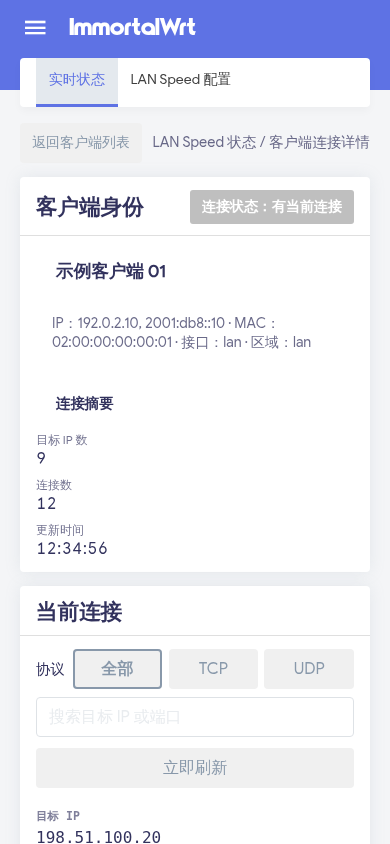
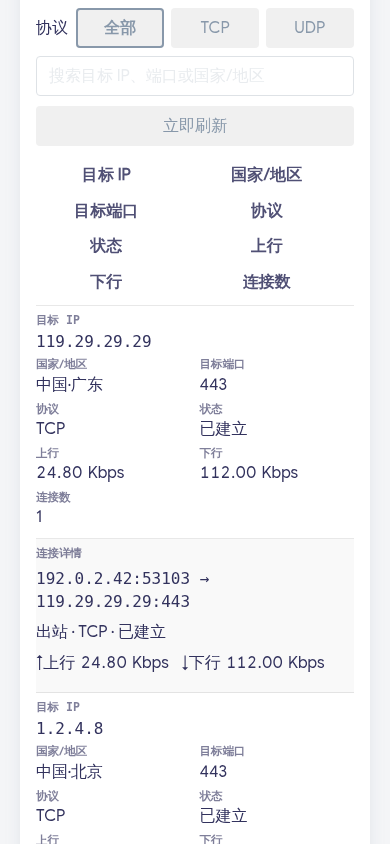
文档：更新脱敏界面示例截图
更新 Aurora 与 Argon 的实时状态及连接详情示例截图，展示八列表头和中国省级位置。所有截图均使用虚构客户端、地址和连接数据，不包含真实设备信息。

diff --git a/applications/luci-app-lanspeed/htdocs/luci-static/resources/lanspeed/geoLocation.js b/applications/luci-app-lanspeed/htdocs/luci-static/resources/lanspeed/geoLocation.js
@@ -1,12 +1,37 @@
 'use strict';
 'require baseclass';
 
-var CACHE_KEY = 'lanspeed.geo-location.v1';
+var CACHE_KEY = 'lanspeed.geo-location.v2';
+var CACHE_VERSION = 2;
+var LOOKUP_ENDPOINT = 'https://ipwho.is/';
 var MAX_CACHE_ENTRIES = 4096;
 var POSITIVE_TTL_MS = 7 * 24 * 60 * 60 * 1000;
 var NEGATIVE_TTL_MS = 5 * 60 * 1000;
 var MAX_CONCURRENCY = 4;
 var REQUEST_TIMEOUT_MS = 8000;
+
+var CHINA_PROVINCES = {
+	AH: '安徽', BJ: '北京', CQ: '重庆', FJ: '福建', GS: '甘肃', GD: '广东',
+	GX: '广西', GZ: '贵州', HI: '海南', HE: '河北', HL: '黑龙江', HA: '河南',
+	HB: '湖北', HN: '湖南', NM: '内蒙古', JS: '江苏', JX: '江西', JL: '吉林',
+	LN: '辽宁', NX: '宁夏', QH: '青海', SN: '陕西', SD: '山东', SH: '上海',
+	SX: '山西', SC: '四川', TJ: '天津', XJ: '新疆', XZ: '西藏', YN: '云南',
+	ZJ: '浙江'
+};
+
+var CHINA_PROVINCE_NAMES = {
+	anhui: '安徽', beijing: '北京', chongqing: '重庆', fujian: '福建',
+	gansu: '甘肃', guangdong: '广东', guangxi: '广西', guizhou: '贵州',
+	hainan: '海南', hebei: '河北', heilongjiang: '黑龙江', henan: '河南',
+	hubei: '湖北', hunan: '湖南', 'inner mongolia': '内蒙古', 'nei mongol': '内蒙古',
+	jiangsu: '江苏', jiangxi: '江西', jilin: '吉林', liaoning: '辽宁',
+	ningxia: '宁夏', qinghai: '青海', shaanxi: '陕西', shandong: '山东',
+	shanghai: '上海', shanxi: '山西', sichuan: '四川', tianjin: '天津',
+	xinjiang: '新疆', tibet: '西藏', xizang: '西藏', yunnan: '云南', zhejiang: '浙江',
+	'guangxi zhuangzu zizhiqu': '广西', 'ningxia huizu zizhiqu': '宁夏',
+	'xinjiang uygur zizhiqu': '新疆', 'xinjiang weiwuer zizhiqu': '新疆',
+	'xizang zizhiqu': '西藏'
+};
 
 function result(kind, label, queryable) {
 	return {
@@ -183,7 +208,7 @@ function readCache(storage, maxEntries, now) {
 		if (!raw || raw.length > 2 * 1024 * 1024)
 			return cache;
 		parsed = JSON.parse(raw);
-		entries = parsed && parsed.version === 1 && parsed.entries;
+		entries = parsed && parsed.version === CACHE_VERSION && parsed.entries;
 		if (!entries || typeof entries !== 'object' || Array.isArray(entries))
 			return cache;
 		keys = Object.keys(entries);
@@ -194,6 +219,9 @@ function readCache(storage, maxEntries, now) {
 				continue;
 			if (entry.status === 'ok' &&
 			    typeof entry.code !== 'string' && typeof entry.country !== 'string')
+				continue;
+			if ((entry.regionCode !== undefined && typeof entry.regionCode !== 'string') ||
+			    (entry.region !== undefined && typeof entry.region !== 'string'))
 				continue;
 			cache[keys[i]] = entry;
 		}
@@ -228,6 +256,29 @@ function createDisplayNames(options) {
 	return null;
 }
 
+function chinaProvince(regionCode, region) {
+	var code = String(regionCode || '').trim().toUpperCase();
+	var name = String(region || '').trim().toLowerCase()
+		.replace(/[_.-]+/g, ' ')
+		.replace(/\s+/g, ' ');
+	var chineseName;
+	var keys, i;
+	if (CHINA_PROVINCES[code])
+		return CHINA_PROVINCES[code];
+	if (!name)
+		return '';
+	keys = Object.keys(CHINA_PROVINCES);
+	chineseName = name.replace(/\s+/g, '');
+	for (i = 0; i < keys.length; i++) {
+		if (chineseName.indexOf(CHINA_PROVINCES[keys[i]]) === 0)
+			return CHINA_PROVINCES[keys[i]];
+	}
+	if (CHINA_PROVINCE_NAMES[name])
+		return CHINA_PROVINCE_NAMES[name];
+	name = name.replace(/\s+(?:sheng|shi)$/, '');
+	return CHINA_PROVINCE_NAMES[name] || '';
+}
+
 function countryFields(payload) {
 	var data = payload && typeof payload === 'object' ? payload : {};
 	var location = data.location && typeof data.location === 'object'
@@ -242,6 +293,12 @@ function countryFields(payload) {
 		data.country_code || data.countryCode || data.country_a2 || '';
 	var country = location.country || location.country_name ||
 		location.countryName || data.country || data.country_name || '';
+	var regionCode = location.region_code || location.regionCode ||
+		location.subdivision_code || data.region_code || data.regionCode ||
+		data.subdivision_code || '';
+	var region = location.region || location.region_name || location.regionName ||
+		location.subdivision || data.region || data.region_name || data.regionName ||
+		data.subdivision || '';
 	var normalizedCountry;
 	code = String(code || '').trim().toUpperCase();
 	country = String(country || '').trim();
@@ -258,16 +315,27 @@ function countryFields(payload) {
 		else
 			code = '';
 	}
-	return { code: code, country: country };
+	return {
+		code: code,
+		country: country,
+		regionCode: String(regionCode || '').trim().toUpperCase(),
+		region: String(region || '').trim()
+	};
 }
 
 function countryResult(entry, displayNames) {
 	var label = '';
+	var province;
 	if (entry.code && displayNames && typeof displayNames.of === 'function') {
 		try { label = displayNames.of(entry.code) || ''; } catch (e) {}
 	}
 	if (!label)
 		label = entry.country || entry.code || '';
+	if (entry.code === 'CN') {
+		province = chinaProvince(entry.regionCode, entry.region);
+		if (province)
+			label = '中国·' + province;
+	}
 	return label
 		? result('country', String(label), false)
 		: result('unknown', '未知', false);
@@ -336,7 +404,7 @@ function createResolver(options) {
 			return;
 		trimCache(cache, maxEntries);
 		try {
-			storage.setItem(CACHE_KEY, JSON.stringify({ version: 1, entries: cache }));
+			storage.setItem(CACHE_KEY, JSON.stringify({ version: CACHE_VERSION, entries: cache }));
 		} catch (e) {}
 	}
 
@@ -376,6 +444,8 @@ function createResolver(options) {
 			status: 'ok',
 			code: fields.code,
 			country: fields.country,
+			regionCode: fields.regionCode,
+			region: fields.region,
 			storedAt: stamp,
 			expiresAt: stamp + POSITIVE_TTL_MS
 		};
@@ -445,13 +515,16 @@ function createResolver(options) {
 		var request = Promise.resolve().then(function() {
 			if (typeof fetcher !== 'function')
 				throw new Error('fetch unavailable');
-			return fetcher('https://ip.guide/' + encodeURIComponent(ip), requestOptions);
+			return fetcher(LOOKUP_ENDPOINT + encodeURIComponent(ip), requestOptions);
 		}).then(function(response) {
 			if (!response || response.ok === false || typeof response.json !== 'function')
 				throw new Error('geolocation request failed');
 			return response.json();
 		}).then(function(payload) {
-			var fields = countryFields(payload);
+			var fields;
+			if (payload && payload.success === false)
+				throw new Error('geolocation request rejected');
+			fields = countryFields(payload);
 			if (!fields.code && !fields.country)
 				throw new Error('country missing');
 			return fields;

diff --git a/tests/validate-lanspeed-geo.js b/tests/validate-lanspeed-geo.js
@@ -71,6 +71,8 @@ async function main() {
 			JSON.stringify([ 'classify', 'createResolver' ]),
 		'geoLocation.js must expose only classify and createResolver');
 	assert(source.includes('MAX_CACHE_ENTRIES = 4096') &&
+		source.includes("CACHE_KEY = 'lanspeed.geo-location.v2'") &&
+		source.includes("LOOKUP_ENDPOINT = 'https://ipwho.is/'") &&
 		source.includes('POSITIVE_TTL_MS = 7 * 24 * 60 * 60 * 1000') &&
 		source.includes('NEGATIVE_TTL_MS = 5 * 60 * 1000') &&
 		source.includes('MAX_CONCURRENCY = 4') &&
@@ -111,13 +113,16 @@ async function main() {
 		storage: null,
 		fetch: (url, options) => {
 			publicFetches++;
-			assert(url === 'https://ip.guide/8.8.8.8',
-				'lookups must use the encoded https://ip.guide/<ip> endpoint');
+			assert(url === 'https://ipwho.is/8.8.8.8',
+				'lookups must use the encoded https://ipwho.is/<ip> endpoint');
 			assert(options.credentials === 'omit' && options.referrerPolicy === 'no-referrer',
 				'lookups must omit credentials and referrer data');
 			return response({
-				network: { autonomous_system: { country: 'CN' } },
-				location: { country: 'China' }
+				success: true,
+				country_code: 'CN',
+				country: 'China',
+				region_code: 'ZJ',
+				region: 'Zhejiang Sheng'
 			});
 		},
 		displayNames: { of: (code) => code === 'CN' ? '中国' : code }
@@ -126,9 +131,27 @@ async function main() {
 		await publicOnly.resolve(ip);
 	assert(publicFetches === 0, 'non-public addresses must never reach the network');
 	const localized = await publicOnly.resolve('8.8.8.8');
-	assert(publicFetches === 1 && localized.kind === 'country' && localized.label === '中国',
-		'country codes must be localized through Intl.DisplayNames-compatible lookup');
+	assert(publicFetches === 1 && localized.kind === 'country' && localized.label === '中国·浙江',
+		'Chinese public IPs must include the localized province');
 	publicOnly.dispose();
+
+	const provincePayloads = [
+		{ success: true, country_code: 'CN', country: 'China', region_code: 'BJ', region: 'Beijing' },
+		{ success: true, country_code: 'CN', country: 'China', region_code: 'XJ', region: 'Xinjiang Uygur Zizhiqu' },
+		{ success: true, country_code: 'CN', country: 'China', region: '广西壮族自治区' },
+		{ success: true, country_code: 'CN', country: 'China' }
+	];
+	const provinces = geo.createResolver({
+		storage: null,
+		fetch: () => response(provincePayloads.shift()),
+		displayNames: { of: (code) => code === 'CN' ? '中国' : code }
+	});
+	assert((await provinces.resolve('17.0.0.1')).label === '中国·北京' &&
+		(await provinces.resolve('17.0.0.2')).label === '中国·新疆' &&
+		(await provinces.resolve('17.0.0.3')).label === '中国·广西' &&
+		(await provinces.resolve('17.0.0.4')).label === '中国',
+		'China province rendering must cover municipalities, autonomous regions, name fallback and missing data');
+	provinces.dispose();
 
 	const specialPayloads = [
 		{ network: { autonomous_system: { country: 'CN' } }, location: { country: 'Hong Kong' } },
@@ -204,6 +227,32 @@ async function main() {
 	assert((await resolverC.resolve('1.1.1.1')).label === 'Expired Refresh' && positiveFetches === 2,
 		'positive entries must expire at the seven-day boundary');
 	resolverC.dispose();
+
+	const legacyStorage = memoryStorage(JSON.stringify({
+		version: 1,
+		entries: {
+			'18.0.0.1': {
+				status: 'ok', code: 'CN', country: 'China', storedAt: now,
+				expiresAt: now + 7 * 24 * 60 * 60 * 1000
+			}
+		}
+	}));
+	let legacyFetches = 0;
+	const legacy = geo.createResolver({
+		storage: legacyStorage,
+		now: () => now,
+		fetch: () => {
+			legacyFetches++;
+			return response({
+				success: true, country_code: 'CN', country: 'China',
+				region_code: 'GD', region: 'Guangdong Sheng'
+			});
+		},
+		displayNames: { of: () => '中国' }
+	});
+	assert((await legacy.resolve('18.0.0.1')).label === '中国·广东' && legacyFetches === 1,
+		'v1 country-only cache entries must be invalidated so China can gain province data');
+	legacy.dispose();
 
 	let failureNow = 2_000_000;
 	const failureStorage = memoryStorage();
@@ -321,7 +370,7 @@ async function main() {
 		'disposal must abort hanging lookups and clear every request timeout');
 
 	const boundedNow = 3_000_000;
-	const oversized = { version: 1, entries: {} };
+	const oversized = { version: 2, entries: {} };
 	for (let i = 0; i < 4100; i++) {
 		oversized.entries[`12.0.${Math.floor(i / 256)}.${i % 256}`] = {
 			status: 'ok', code: 'US', country: 'United States', storedAt: i,

diff --git a/tests/validate-release-version.js b/tests/validate-release-version.js
@@ -640,12 +640,12 @@ try {
   assert(readme.includes('手动运行也可补发'), 'README must document missing-release recovery');
   assert(readme.includes('不得预先创建 `v*` tag'), 'README must forbid maintainers from pre-creating release tags');
   assert(!readme.includes('GitHub Actions 在 `v*` tag 发布时'), 'README must not retain the obsolete tag-trigger description');
-  assert(readme.includes('`1.1.0-r9`'), 'README full-version example must match the 1.1.0 release');
-  assert(!/1\.1\.0-r[1-9][0-9]+/.test(readme),
-    'README must not advance the 1.1.0 release beyond r9');
+  assert(readme.includes('`1.1.0-r10`'), 'README full-version example must match the 1.1.0 release');
+  assert(!/1\.1\.0-r(?:1[1-9]|[2-9][0-9]|[1-9][0-9]{2,})/.test(readme),
+    'README must not advance the 1.1.0 release beyond r10');
 
-  assert(daemonRelease === '9', 'daemon PKG_RELEASE must be exactly 9 for the automatic release workflow');
-  assert(luciRelease === '9', 'LuCI PKG_RELEASE must be exactly 9 for the automatic release workflow');
+  assert(daemonRelease === '10', 'daemon PKG_RELEASE must be exactly 10 for the automatic release workflow');
+  assert(luciRelease === '10', 'LuCI PKG_RELEASE must be exactly 10 for the automatic release workflow');
 
   console.log('validate-release-version: PASS');
 } catch (error) {

diff --git a/tests/validate-lanspeed-modules.js b/tests/validate-lanspeed-modules.js
@@ -2140,7 +2140,7 @@ function assertClientDetailRefreshBehavior(src) {
 	if (!footer.includes('连接数据') || !footer.includes('Conntrack Netlink') ||
 	    !footer.includes('显示 2 / 共 2 条') ||
 	    !footer.includes('每 1 秒自动刷新') ||
-	    !footer.includes('国家/地区按 IP 推测，由浏览器查询并缓存')) {
+	    !footer.includes('国家/地区及中国省份按 IP 推测，由浏览器查询并缓存')) {
 		fail('clientDetailRefresh.js footer must report source/count/refresh meanings and disclose browser-cached IP inference');
 	}
 	if (JSON.stringify(locationRequests[0]) !== JSON.stringify([
@@ -3680,7 +3680,7 @@ function assertViewRequires(src) {
 
 function assertCacheAwareViewEntry(src, moduleName, label) {
 	if (!/^\s*['"]require\s+view['"]\s*;/m.test(src) ||
-	    !src.includes("var RESOURCE_VERSION = 'lanspeed-1.1.0-r9';") ||
+	    !src.includes("var RESOURCE_VERSION = 'lanspeed-1.1.0-r10';") ||
 	    !src.includes('var previousVersion = L.env.resource_version;') ||
 	    !src.includes('L.env.resource_version = RESOURCE_VERSION;') ||
 	    !src.includes(`L.require('${moduleName}')`) ||

diff --git a/applications/luci-app-lanspeed/htdocs/luci-static/resources/lanspeed/clientDetailRefresh.js b/applications/luci-app-lanspeed/htdocs/luci-static/resources/lanspeed/clientDetailRefresh.js
@@ -434,7 +434,7 @@ function render(viewState) {
 			footer.push(_('告警：') + warnings.map(warningLabel).join('，'));
 	}
 	footer.push(_('每 %s 秒自动刷新').format(String(Math.round(Number(interval) / 100) / 10)));
-	footer.push(_('国家/地区按 IP 推测，由浏览器查询并缓存，结果可能不准确'));
+	footer.push(_('国家/地区及中国省份按 IP 推测，由浏览器查询并缓存，结果可能不准确'));
 	refs.footer.textContent = footer.join(' · ');
 }
 

diff --git a/applications/luci-app-lanspeed/htdocs/luci-static/resources/view/lanspeed/diagnostics.js b/applications/luci-app-lanspeed/htdocs/luci-static/resources/view/lanspeed/diagnostics.js
@@ -1,7 +1,7 @@
 'use strict';
 'require view';
 
-var RESOURCE_VERSION = 'lanspeed-1.1.0-r9';
+var RESOURCE_VERSION = 'lanspeed-1.1.0-r10';
 var pageModule;
 
 function loadPageModule() {

diff --git a/applications/luci-app-lanspeed/htdocs/luci-static/resources/view/lanspeed/overview.js b/applications/luci-app-lanspeed/htdocs/luci-static/resources/view/lanspeed/overview.js
@@ -1,7 +1,7 @@
 'use strict';
 'require view';
 
-var RESOURCE_VERSION = 'lanspeed-1.1.0-r9';
+var RESOURCE_VERSION = 'lanspeed-1.1.0-r10';
 var pageModule;
 
 function loadPageModule() {

diff --git a/applications/luci-app-lanspeed/htdocs/luci-static/resources/lanspeed/version.js b/applications/luci-app-lanspeed/htdocs/luci-static/resources/lanspeed/version.js
@@ -3,6 +3,6 @@
 
 return baseclass.extend({
 	PACKAGE_VERSION: '1.1.0',
-	PACKAGE_RELEASE: '9',
-	FULL_VERSION: '1.1.0-r9'
+	PACKAGE_RELEASE: '10',
+	FULL_VERSION: '1.1.0-r10'
 });

diff --git a/README.md b/README.md
@@ -10,7 +10,7 @@ LAN 侧按客户端实时吞吐监控 + TCP/UDP 连接数统计，当前面向 I
 
 ## 界面预览
 
-以下截图分别使用 **Aurora** 与 **Argon** 主题；客户端名称、MAC、IP 和连接数据均已替换为脱敏示例。点击链接可查看完整原图。
+以下截图分别使用 **Aurora** 与 **Argon** 主题；六张图片均由虚构客户端、文档保留地址和示例连接数据生成，不包含真实设备、主机名、MAC、内网地址或路由器运行信息。连接详情示例同时展示八列表头，以及中国目标按省级行政区显示（如 `中国·浙江`）。点击链接可查看完整原图。
 
 - **Aurora**
   - [实时状态](docs/screenshots/lanspeed-overview-desktop.png)
@@ -49,7 +49,7 @@ make -j"$(nproc)" package/luci-app-lanspeed/compile
 - **实时速率**：BPF tc 按 MAC + zone/VLAN 直接计数，字段为 `tx_bps` / `rx_bps`；生产运行默认加载只做流量统计的低开销对象，不再在每个转发包上计算未被响应使用的近似连接数；BPF 是所有设备（包括 NSS）的默认实时速率来源，`auto` 模式会首先选择 BPF；短时静默客户端会保留隐藏计数基线，恢复流量时首个样本不再固定显示为 0。
 - **连接数统计**：优先 CT-Netlink 读取 conntrack accounting，失败自动回退 CT-Procfs；TCP、UDP、DNS UDP 分开统计。
 - **逐连接实时速率**：点击客户端名称进入连接详情后，按目标 IP 汇总并显示上行/下行速率；八列表头均可排序，默认把下行速度最高的目标放在最上面；展开目标可查看每条 TCP/UDP 连接各自的客户端视角 `tx_bps` / `rx_bps`。单客户端详情最多返回 2048 条连接，仍保留全局 16384 条存储保护。
-- **国家/地区**：详情页只对当前分页中去重后的公网目标 IP 由浏览器查询 `ip.guide`，最多 4 个并发，并在浏览器本地保存有界的 7 天正缓存和 5 分钟负缓存；内网、代理 Fake-IP 与保留地址在本地直接分类，不增加 daemon CPU。显示结果是 IP 位置推测，可能受 CDN、Anycast、VPN 或代理影响。
+- **国家/地区**：详情页只对当前分页中去重后的公网目标 IP 由浏览器查询 `ipwho.is`，中国结果优先显示省级行政区（例如 `中国·浙江`）；最多 4 个并发，并在浏览器本地保存有界的 7 天正缓存和 5 分钟负缓存。内网、代理 Fake-IP 与保留地址在本地直接分类，不增加 daemon CPU。显示结果是 IP 位置推测，可能受 CDN、Anycast、VPN 或代理影响。
 - **NSS 兼容**：Qualcomm NSS 设备自动展示 ECM/PPE 状态，默认仍使用 LAN 边缘 BPF；显式选择 NSS 模式或 BPF 运行时不可用时，才使用 NSS sync / CT-Netlink 或 NSS-direct。NSS 硬件加速流量可能绕过 CPU，因此 BPF 只能看到慢路径；IPv4 通过 ARP、IPv6 通过 neighbor 表匹配客户端，并兼容 ECM NAT 端点。
 - **活跃客户端**：默认只把 10 秒内仍有有效速率的客户端计为 active，可通过 UCI 调整。
 - **覆盖率**：daemon 侧使用 32 个样本的滑动窗口，并按客户端实时速率生成单调累计分子，避免客户端离线/重新出现导致覆盖率跳回“采样中”；低流量与真正无流量分开显示。
@@ -58,7 +58,7 @@ make -j"$(nproc)" package/luci-app-lanspeed/compile
 - **接口配置**：采集 / 观察 / 关闭 三态切换，默认采集 `br-lan`、观察 `wan`；自动忽略 `dae*`、`miireg*`、`tun*`、`erspan*`、`gretap*`、`gre*`、`ip6gre*`、`ip6tnl*`、`sit*`、`bonding_masters*`，拒绝 nssifb 采集并可观察 WAN / ifb 计数。
 - **告警体系**：OpenClash / dae/daed / SQM/qosify/ifb / flow offload / fullcone NAT 等场景自动识别并提示。
 - **客户端状态列**：默认隐藏 LAN 客户端的采集来源与告警状态，可在“LAN Speed 配置”中开启。
-- **版本显示**：LuCI 状态页显示完整版本，例如 `1.1.0-r9`。
+- **版本显示**：LuCI 状态页显示完整版本，例如 `1.1.0-r10`。
 
 ## 采集策略
 
